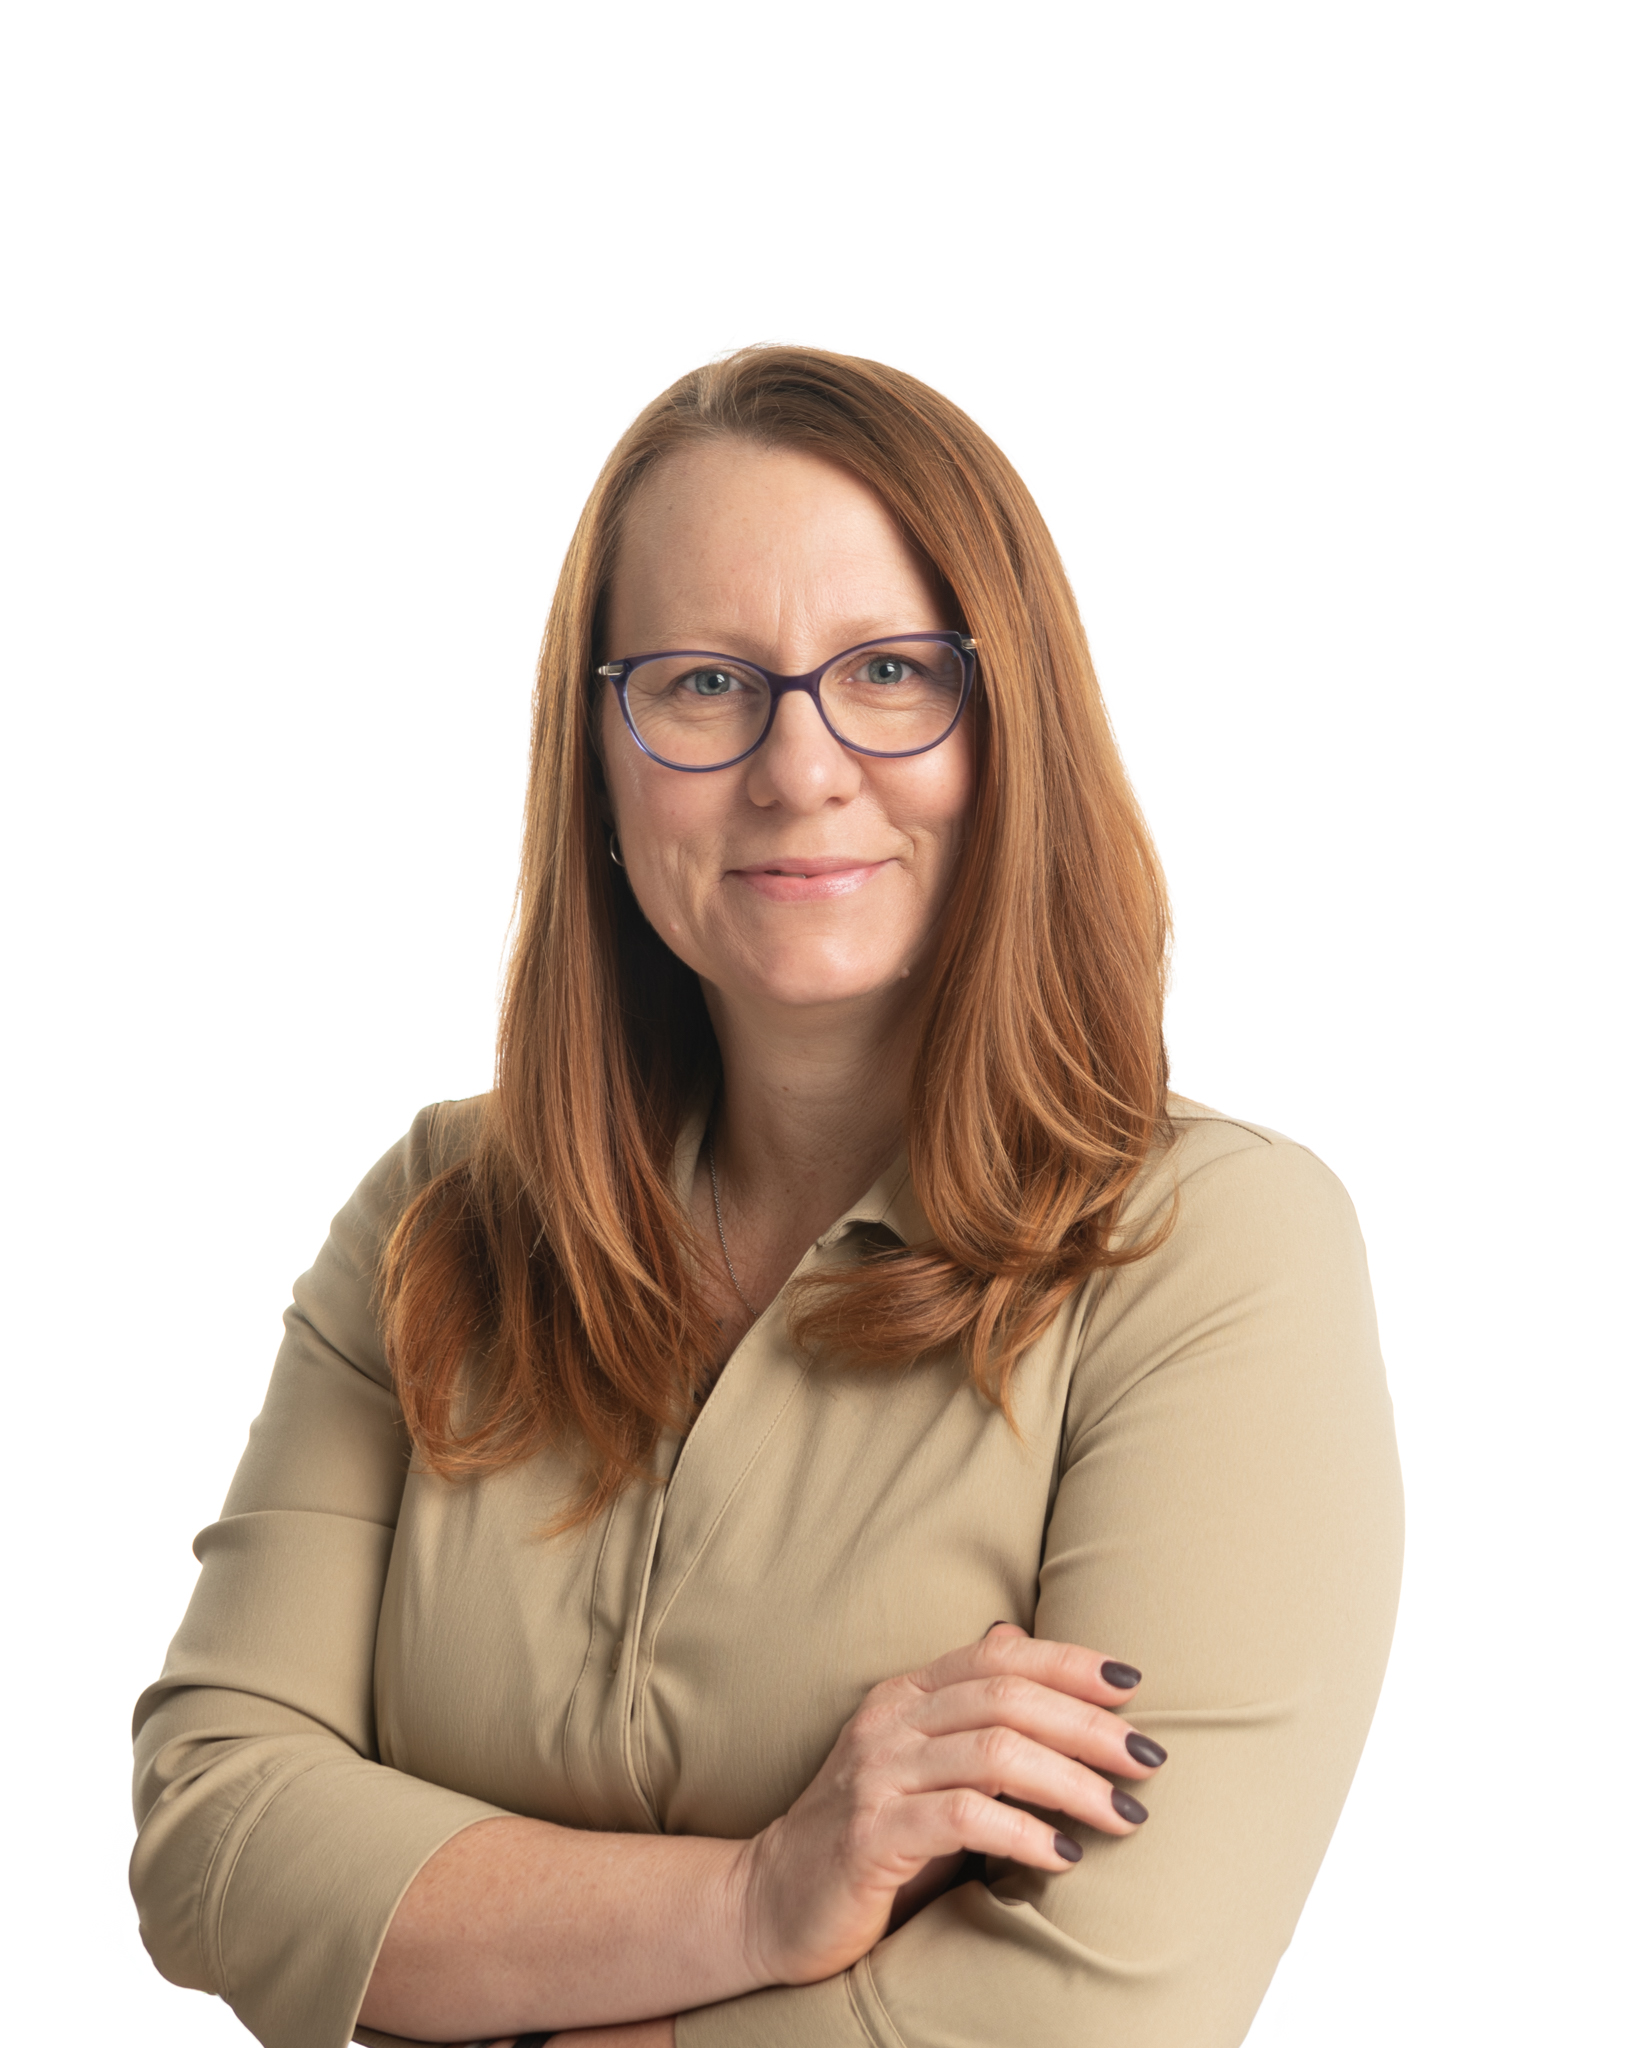
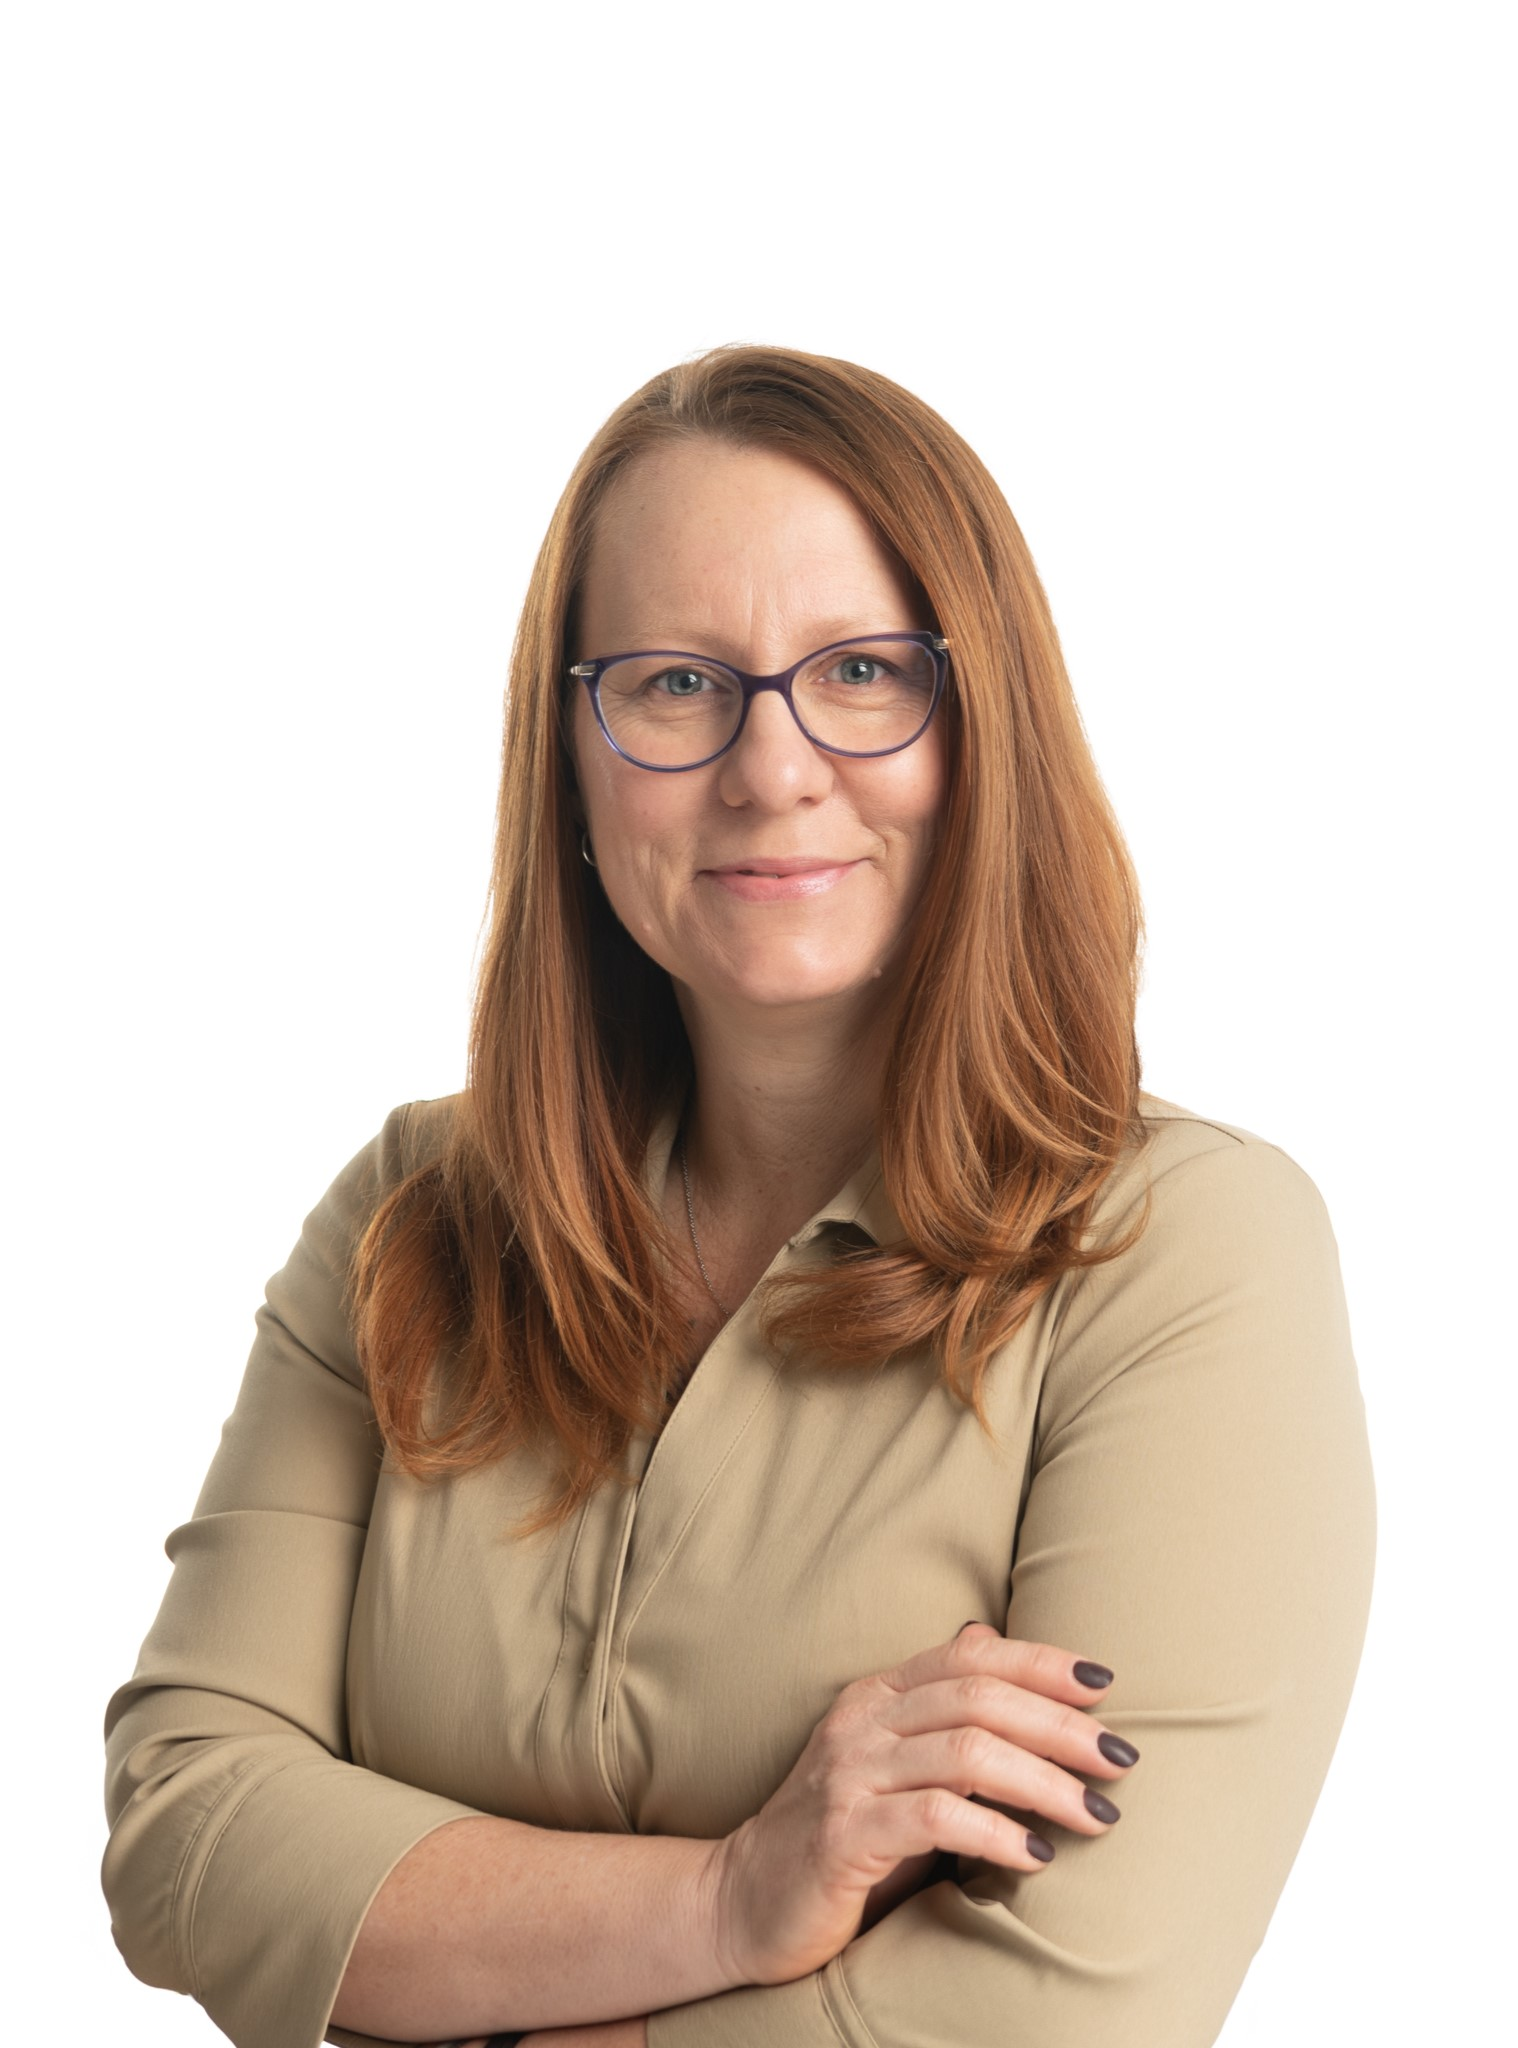
hoverover pictures works, messed with some of the picture aspect ratios and the background

diff --git a/scripts/main.js b/scripts/main.js
@@ -46,7 +46,11 @@ function cohortMembers(list) {
     studentContact += `</div>`
 
     let studentInfo = `<div class="col-md-3 cohortMems">
-          <img class="card-img-top" src="images/classmates/${item.proImg}" alt="${item.firstName} ${item.lastName}" data-toggle="modal" data-target="#cohortMember${item.id}" style="cursor:pointer;">
+          <img class="card-img-top" src="images/classmates/${item.proImg}"
+          onmouseover=src="../images/classmates/${item.funImg}"
+          onmouseout=src="images/classmates/${item.proImg}"
+          height="330"
+          alt="${item.firstName} ${item.lastName}" data-toggle="modal" data-target="#cohortMember${item.id}" style="cursor:pointer;">
           <div class="card-body">
             <h4 class="card-title title-font">${item.firstName} ${item.lastName}</h4>`
     //if student didn't provide a reelthemin quote then nothing is displayed

diff --git a/styles/main.css b/styles/main.css
@@ -6,7 +6,7 @@ html,
 body {
     max-width: 100%;
     overflow-x: hidden;
-    background: url("../images/gray.jpeg") fixed no-repeat;
+    background: url("../images/gray.jpeg") fixed ;
     background-size: 100%;
     background-color: black;
 }
